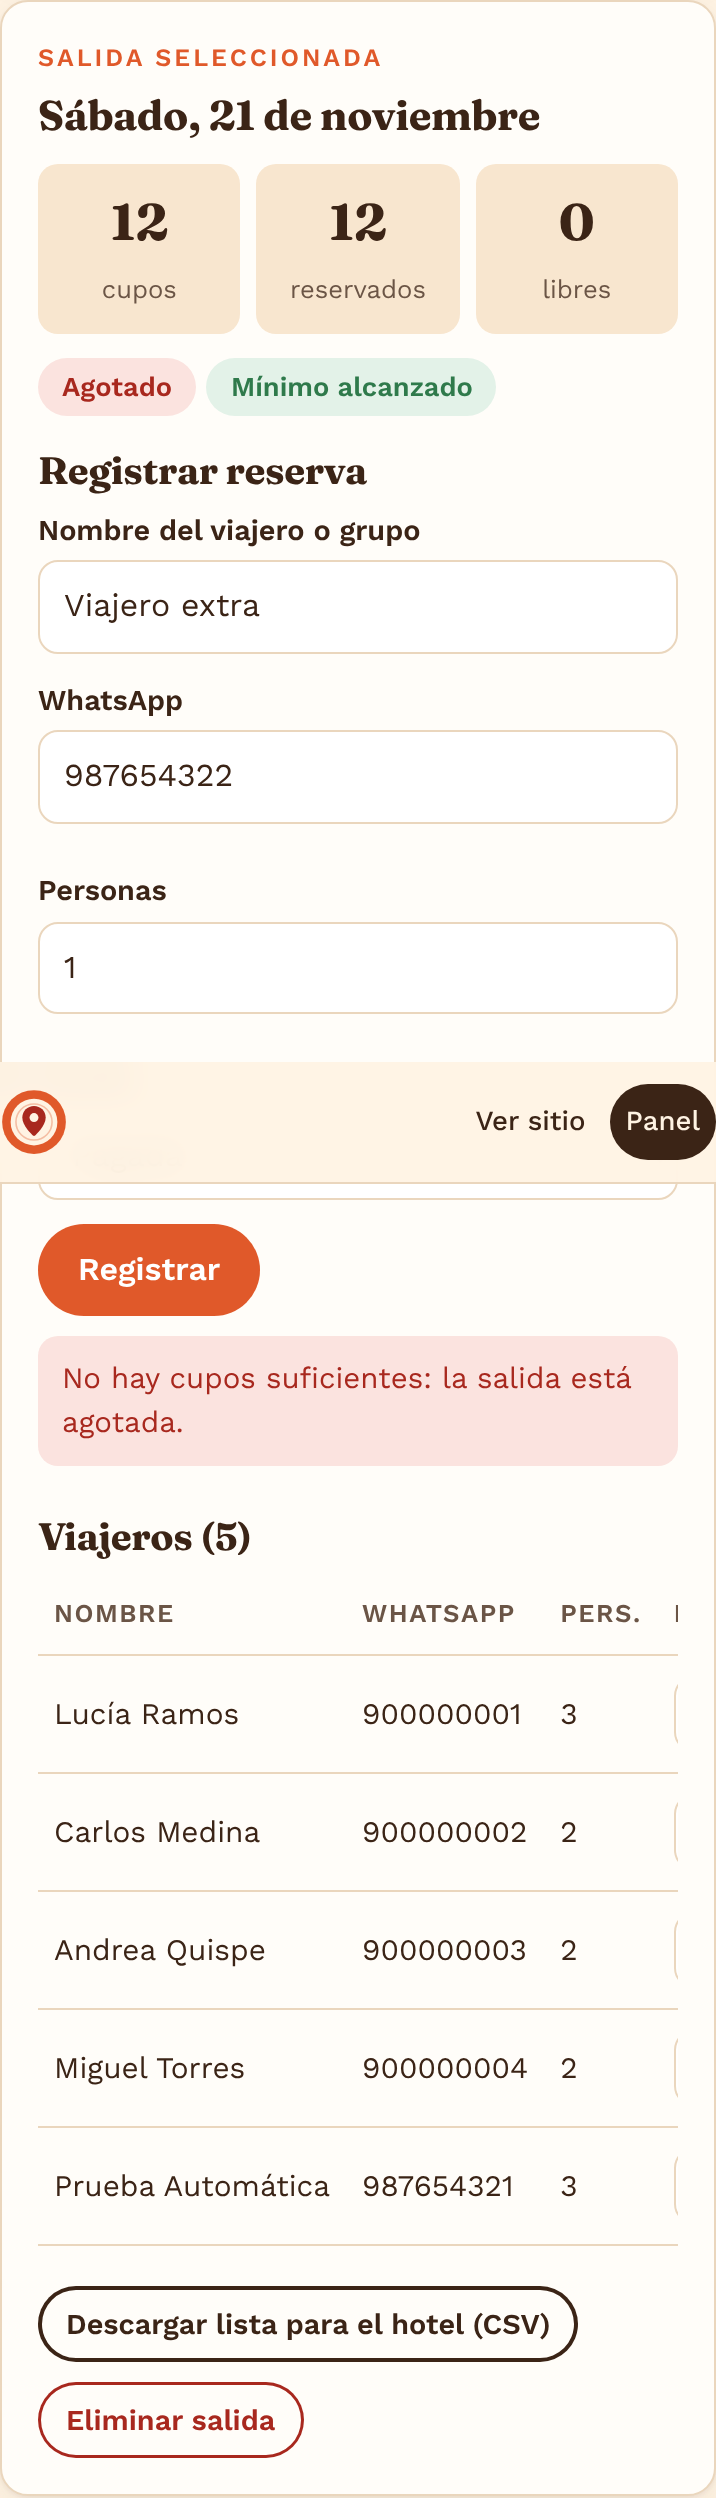
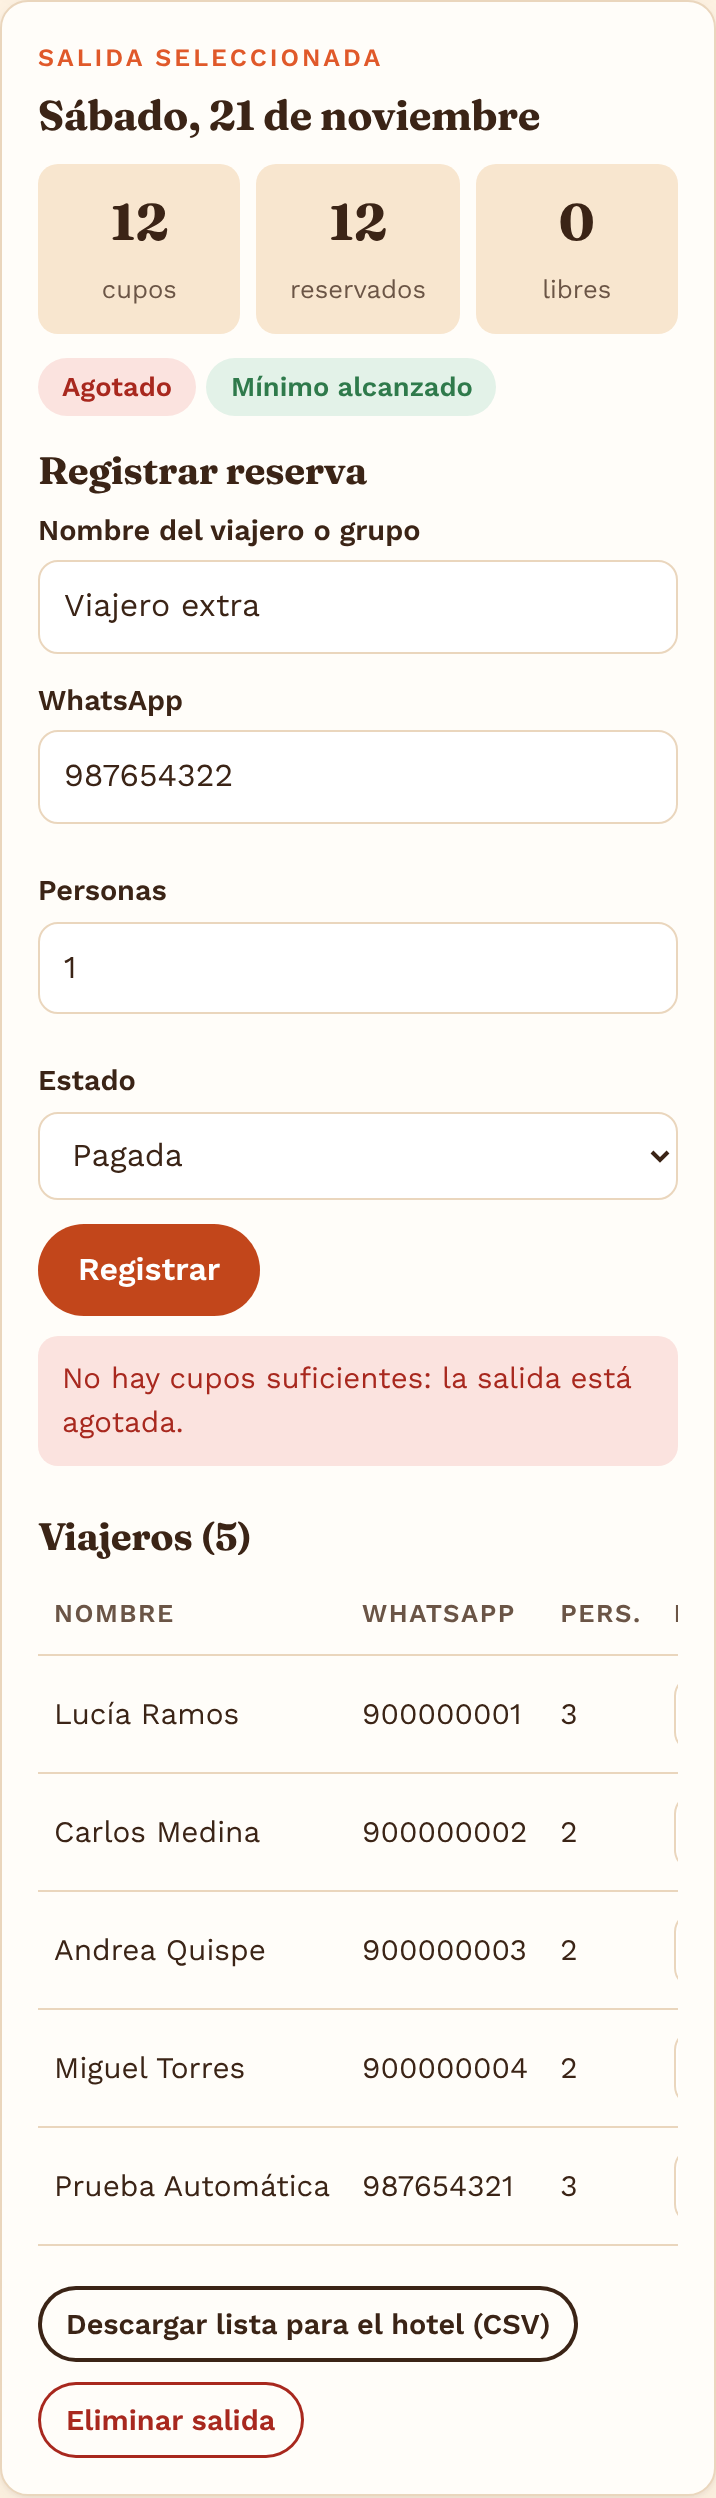
Pruebas: captura del panel sin el encabezado fijo encima
Claude-Session: https://claude.ai/code/session_01Grv15F8EVw6u8qkVtd4QCe

Changed region(s): [[0.0, 0.4059, 1.0, 0.5308]]

diff --git a/docs/resultados-aceptacion.md b/docs/resultados-aceptacion.md
@@ -1,6 +1,6 @@
 # Resultados de las pruebas de aceptación · Iteración 1
 
-Ejecutado el 18/11/2026, 12:26:02 p. m. · 12 de 12 pruebas aprobadas.
+Ejecutado el 18/11/2026, 12:30:03 p. m. · 12 de 12 pruebas aprobadas.
 
 | Historia | Criterio | Resultado | Detalle |
 | --- | --- | --- | --- |
@@ -10,7 +10,7 @@ Ejecutado el 18/11/2026, 12:26:02 p. m. · 12 de 12 pruebas aprobadas.
 | HU-03 | Salida sin cupos aparece como «Agotado» y no deja reservar | Aprobado | Agotado |
 | HU-06 | Solo el equipo entra al panel: sin sesión no se ve y una contraseña incorrecta se rechaza | Aprobado | Correo o contraseña incorrectos. |
 | HU-06 | El operador inicia sesión y crea una salida con fecha y cupos | Aprobado | salida del 2027-01-02 creada |
-| HU-06 | Al registrar una reserva, la lista de viajeros y los cupos libres se actualizan al instante | Aprobado | libres 3 → 0 en 62 ms |
+| HU-06 | Al registrar una reserva, la lista de viajeros y los cupos libres se actualizan al instante | Aprobado | libres 3 → 0 en 55 ms |
 | HU-06 | No se puede registrar una reserva si ya no hay cupos (sin sobreventa) | Aprobado | No hay cupos suficientes: la salida está agotada. |
 | HU-06 | Se descarga la lista de viajeros para el hotel | Aprobado | cometu-salida-2026-11-21.csv con 5 viajeros |
 | HU-03 | Lo registrado en el panel se refleja en la página pública (la salida pasa a «Agotado») | Aprobado | Agotado |
@@ -21,9 +21,9 @@ Ejecutado el 18/11/2026, 12:26:02 p. m. · 12 de 12 pruebas aprobadas.
 
 | Red | Página | Tiempo | Peso |
 | --- | --- | --- | --- |
-| 4G (lenta) | index.html | 1.06 s | 80 KB |
-| 4G (lenta) | paquete.html | 1.08 s | 54 KB |
-| 4G (lenta) | donde-comer.html | 1.04 s | 62 KB |
+| 4G (lenta) | index.html | 1.03 s | 80 KB |
+| 4G (lenta) | paquete.html | 1.08 s | 74 KB |
+| 4G (lenta) | donde-comer.html | 1.04 s | 80 KB |
 | 3G (rápida) | index.html | 2.35 s | 80 KB |
 | 3G (rápida) | paquete.html | 2.38 s | 74 KB |
-| 3G (rápida) | donde-comer.html | 2.34 s | 80 KB |
+| 3G (rápida) | donde-comer.html | 2.36 s | 60 KB |
